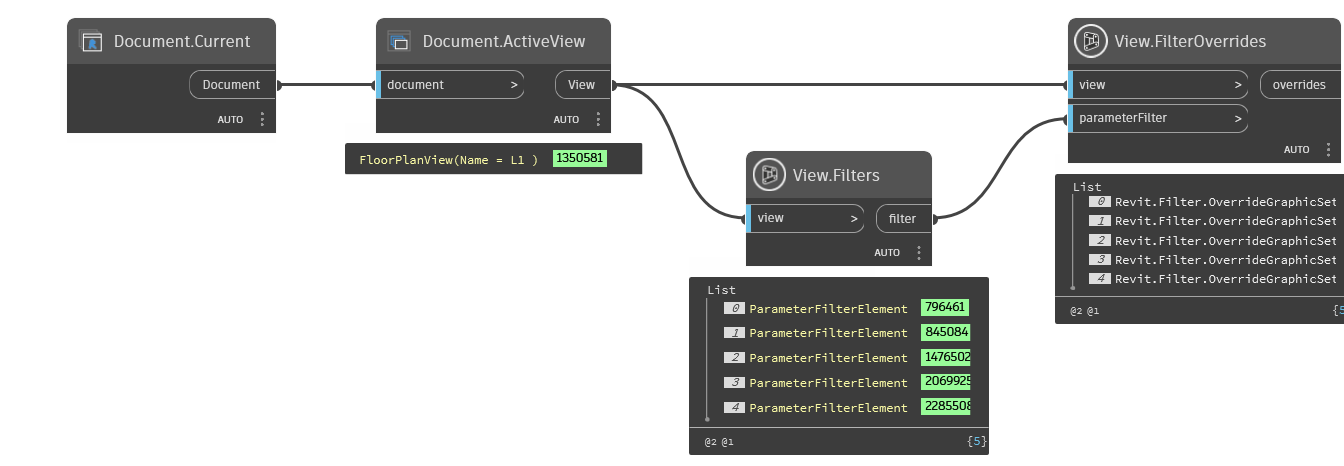
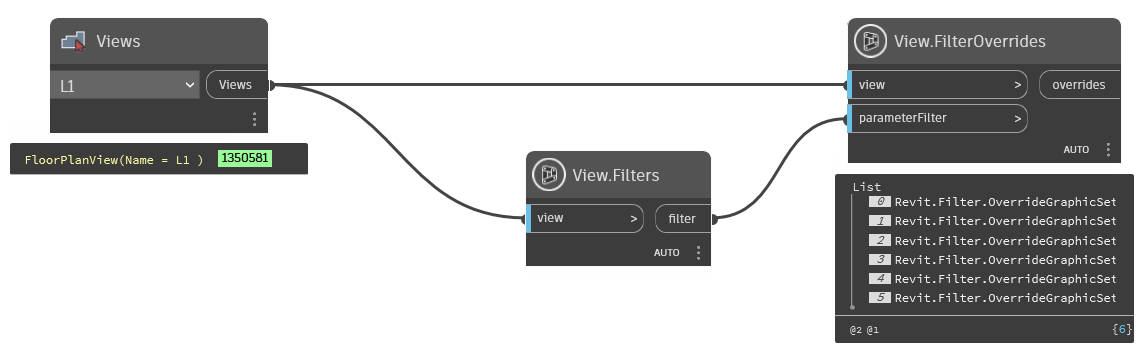
Revit.Elements.Views.View.FilterOverrides

diff --git a/doc/distrib/NodeHelpFiles/_review/Revit.Elements.Views.View.FilterOverrides.md b/doc/distrib/NodeHelpFiles/_review/Revit.Elements.Views.View.FilterOverrides.md
@@ -1,7 +1,8 @@
 ## In Depth
 `View.FilterOverrides` provides the settings for the given view filter `(ParameterFilterElement)`.
 
-In the example below, the view filters are collected from the current view and the filter overrides are returned.
+In the example below, the view filters are collected from the selected view and the filter overrides are returned.
+
 ___
 ## Example File
 
